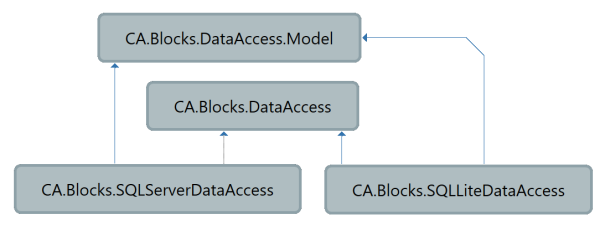
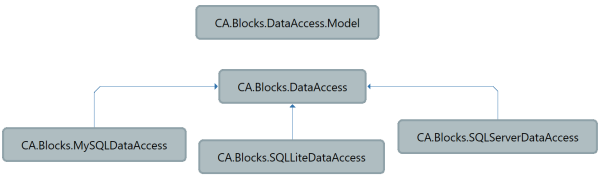
Add MySQL documntation

Changed region(s): [[0.0, 0.0282, 1.0, 0.9887]]

diff --git a/CA.Blocks.DataAccess/DI/AppDotConfigConnectionStringsResolver.cs b/CA.Blocks.DataAccess/DI/AppDotConfigConnectionStringsResolver.cs
@@ -5,7 +5,7 @@ namespace CA.Blocks.DataAccess.DI
     /// <summary>
     /// Uses the App.Config ConnectionStrings, this is common on .NET 1-4.8 frameworks. It will be using the App.config or web.config ConnectionStrings setting
     /// </summary>
-    [System.Obsolete("We are going remove class to reduce the number of dependencies taken on the CA.Blocks.DataAccess. The Configuration used is a Hosting app concern")]
+    [System.Obsolete("We are going remove class to reduce the number of dependencies taken on the CA.Blocks.DataAccess. The Configuration used is a Hosting app concern see https://www.codeassociate.com/Blocks/DataAccess/Samples/Connection/UsingAppDotConfigConnectionStringsResolver.html for a fix")]
     public class AppDotConfigConnectionStringsResolver : IDataAccessKeyToConnectionStringResolver
     {
         /// <summary>

diff --git a/CA.Blocks.DataAccess/DI/JsonConfigConnectionStringsResolver.cs b/CA.Blocks.DataAccess/DI/JsonConfigConnectionStringsResolver.cs
@@ -6,7 +6,7 @@ namespace CA.Blocks.DataAccess.DI
     /// Uses the JsonConfig  this is common on .NET core frameworks 
     /// </summary>
     ///
-    [System.Obsolete("We are going remove class to reduce the number of dependencies taken on the CA.Blocks.DataAccess. The Configuration used is a Hosting app concern")]
+    [System.Obsolete("We are going remove class to reduce the number of dependencies taken on the CA.Blocks.DataAccess. The Configuration used is a Hosting app concern. See https://www.codeassociate.com/Blocks/DataAccess/Samples/Connection/UsingJsonConfigConnectionStringsResolver.html for a fix")]
     public class JsonConfigConnectionStringsResolver : IDataAccessKeyToConnectionStringResolver
     {
         private readonly IConfiguration _configuration;

diff --git a/Documentation/Index.md b/Documentation/Index.md
@@ -7,16 +7,16 @@ The CA.Blocks.DataAccess is a lightweight .NET library designed specifically for
 
 1. Direct working with the SQL layer. If you like controlling exactly what the SQL does this is a good framework, as you are 100% in the control of the SQL.
 2. Custom translators allowing you to use the generic converters, or implementing you own converters for performance. 
-3. Easy setup and Go with providers for SQL light and SQL server.
+3. Easy setup and Go with providers for SQL light and SQL server, and MySQL
 
 
 ### What it is not
 
-The CA.Blocks.DataAccess is not trying to be a an ORM like Entity framework for NHibernate and hiding the SQL.  The base classes have never been designed to be any form of ORM.  In fact using the blocks you will be working directly with the underlying SQL. There is no magic projection for queries or magic save to have changes to classes back to entities in the DB. Whilst there are helper functions you are 100% in control the database interactions.
+The CA.Blocks.DataAccess is not trying to be a an ORM like Entity framework for NHibernate and hiding the SQL.  The base classes have never been designed to be any form of ORM, and there is no DB context. In fact using the blocks you will be working directly with the underlying SQL. There is no magic projection for queries or magic save to have changes to committed back to entities in the DB. Whilst there are helper functions you are 100% in control the database interactions.
 
-Using the blocks allows full control of the SQL. If you don’t want to work with SQL then this is not the library for you.  The Blocks allow you to work directly with the SQL code whilst providing a good structure to reduce the impedance mismatch between the two technologies allowing the developer to move from the C# types into SQL parameters and then SQL into the C# types.
+Using the blocks allows full control of the SQL. If you don’t want to work with SQL then this is not the library to used.  The Blocks allow you to work directly with the SQL code whilst providing a good structure to reduce the impedance mismatch between the two technologies allowing a developer to move from the C# types into SQL parameters and then SQL into the C# types.
 
 
 ### History
 
-CA.Blocks.DataAccess grew out of projects I been working on since 2003. and have been well tested.  They have evolved as the .NET framework as evolved.  After trying to switch to Entity framework and n-Hibernate I came back to the CA.Blocks.DataAccess for the simple reason it was lightweight and far more predictable.  I found that whilst the Entity framework and n-Hibernate excel at CRUD type applications I was doing a lot of workarounds and conversions trying use and them in either CQRS, layered onion, and repository  type Architectures.  I have seen many code bases use Entity framework for data access in a Repository Pattern, any in most cases you end up writing more code in the object world to avoid working to a few SQL statements.  A tell-tale sign is you using reflection or mapping to copy objects of similar structures across boundaries. 
+CA.Blocks.DataAccess grew out of projects I been working on since 2003, they are will used and tested.  They have evolved as the .NET framework as evolved.  After trying to switch to Entity framework and n-Hibernate I came back to the CA.Blocks.DataAccess as my defacto for the simple reason it was lightweight and far more predictable.  I found that whilst the Entity framework and n-Hibernate excel at CRUD type applications I was doing a lot of workarounds and conversions trying use and them in either CQRS, layered onion, and repository  type Architectures.  I have seen many code bases use Entity framework for data access in a Repository Pattern, any in most cases you end up writing more code in the object world to avoid working to a few SQL statements.  A tell-tale sign is you using reflection or mapping to copy objects of similar structures across boundaries. 

diff --git a/Documentation/Samples/Connection/UsingJsonConfigConnectionStringsResolver.md b/Documentation/Samples/Connection/UsingJsonConfigConnectionStringsResolver.md
@@ -1,8 +1,9 @@
 ### JsonConfigConnectionStringsResolver
 
-This is a implementation of IDataAccessKeyToConnectionStringResolver that uses the Microsoft.Extensions.ConfigurationConfigurationManager class.  This is common with the .NET Core frameworks and designed using the dependency injection pattern.
+This is an example implementation of IDataAccessKeyToConnectionStringResolver that uses the Microsoft.Extensions.ConfigurationConfigurationManager class.  
+This is common with the .NET Core frameworks and designed using the dependency injection pattern. 
 
-Example config in appsettings.json 
+Example using Json and with config in appsettings.json and a ConnectionString named exampleName
 
 ``` json 
 {
@@ -12,10 +13,13 @@ Example config in appsettings.json
 }
 
 ```
-First you will need to add a reference to the package Microsoft.Extensions.Configuration 
-Create a class in your hosing application called JsonConfigConnectionStringsResolver, to resolve the Key to the connection string.  
+First you will need to add a reference to the package Microsoft.Extensions.Configuration
+Create a class in your code where you data access classes will live called JsonConfigConnectionStringsResolver, to resolve the Key to the connection string.  
 
 ``` csharp
+/// <summary>
+/// Uses the JsonConfig 
+/// </summary>
 public class JsonConfigConnectionStringsResolver : IDataAccessKeyToConnectionStringResolver
 {
     private readonly IConfiguration _configuration;
@@ -27,6 +31,7 @@ public class JsonConfigConnectionStringsResolver : IDataAccessKeyToConnectionStr
 
     public string GetConnectionString(string connectionStringKey)
     {
+        // this is use the IConfiguration to get the configured value for connectionStringKey/
         return _configuration.GetConnectionString(connectionStringKey);
     }
 }
@@ -37,10 +42,10 @@ To use this in from the blocks we need to join the config up notice we are using
 ``` csharp
 public class MyDataAccess : SqlServerDataAccess
 {
-    public MyDataAccess() : base (
+    public MyDataAccess(IConfiguration configuration) : base (
             new DataAccessConfig("configName", 
             new DataAccessConfigOptions { ConnectionStringKey = "exampleName" }, 
-            new JsonConfigConnectionStringsResolver())
+            new JsonConfigConnectionStringsResolver(configuration))
         )
         {
         }

diff --git a/Documentation/BasicDesign.md b/Documentation/BasicDesign.md
@@ -3,7 +3,7 @@
 The basic premise of the Data Access Blocks is to provide a simple interface to access a relational database. The blocks are split into three core components allowing flexible configurations.  
 1. The Model  - CA.Blocks.DataAccess.Model used for client access in multi tier architectures.
 2. The Core Abstract Data Access Logic - CA.Blocks.DataAccess used for abstract and shared non provider specific code.  
-3. The specific implementation - eg    CA.Blocks.SQLServerDataAccess or CA.Blocks.SQLLiteDataAccess
+3. The specific implementation - eg    CA.Blocks.SQLServerDataAccess or CA.Blocks.SQLLiteDataAccess or CA.Blocks.MySQLDataAccess
 
 <p align="center">
     <img src="_assets/DesignCA.Blocks.DataAccess.png" alt="Design CA.Blocks.DataAccess" />
@@ -14,6 +14,7 @@ The basic premise of the Data Access Blocks is to provide a simple interface to 
 The *model* represents the core design elements that you will need a client to specify. The client might not have access to the data access class as such the model is implemented in an independent assembly and will have no dependencies. An example is a the PagingRequest class. The paging request is a common element that is specified on the client and passed into the The specific implementation to execute. The paging class can then be shared on the client application allowing it to specify the paging request without having to have a reference to the  Data Access or any of the provider classes.  This would be typical in a web application, that access the service using  a web API. The CA.Blocks.DataAccess.Model has no dependencies. 
 
 #### The Core Abstract code
+
 The code in the CA.Blocks.DataAccess is abstract and common among all providers.  The assembly will have no dependencies on any specific provider. This assembly handles the connection, execution and translation, all of these elements are in System.Data namespace. It will work at the System.Data level you will not find any specific reference to to any provider at this level.
 
 #### The specific implementation 
@@ -29,6 +30,11 @@ PM> Install-Package CA.Blocks.SQLServerDataAccess -Version x.x.x
 To install for Microsoft.Data.Sqlite
 ```
 PM> Install-Package CA.Blocks.SQLLiteDataAccess -Version x.x.x
+```
+
+To install for MySqlConnector
+```
+PM> Install-Package CA.Blocks.MySQLDataAccess -Version x.x.x
 ```
 
 

diff --git a/Documentation/GettingStarted.md b/Documentation/GettingStarted.md
@@ -56,7 +56,7 @@ Notes:
 5. The SQL is constructed internally as parameterized query this is a developer responsibility
 6. The conversion of .NET string to SQL parameter is done in .WithParameter(xtype.ToSqlParameter("@xtype"));  you can also use the connection object directly ie cmd.Parameters.Add(xtype.ToSqlParameter("@xtype"));
 7. The ToSqlParameter is a convention to taking a .NET type into a SQL server parameter. All .NET value types will have implementations of ToSqlParameter();
-8. The cmd is then passed into the ExecuteToListOf  method which returns the data as a Ilist of ExampleSysObjects. As we have 1-1 mapping the conversion is handled 100% by the Blocks.
+8. The cmd is then passed into the ExecuteToListOf  method which returns the data as a IList of ExampleSysObjects. As we have 1-1 mapping the conversion is handled 100% by the Blocks.
 
 Consuming this class: 
 ``` csharp
@@ -75,7 +75,7 @@ public void ExecuteToListOfDev()
 ```
 Notes:
 1. You construct the instance of the DataAccess ExampleReadDataAsExecuteListOf()
-2. You Call the method ReadSysObjectsOfType("U") The only methods you see are public ones from System.Object and the ReadSysObjectsOfType. This is by design guts of the DataAccess Class is Protected By Default. The Instance of the DataAccess can access the method, but the calling client only sees what is exposed. The calling code cannot call ExecuteToListOf
+2. You Call the method ReadSysObjectsOfType("U") The only methods you see are public ones from System.Object and the ReadSysObjectsOfType. This is by design the guts of the DataAccess class is protected By default. The Instance of the DataAccess can access the method, but the calling client only sees what is exposed. The calling code cannot call ExecuteToListOf
 <p align="center">
     <img src="_assets/ProtectedByDefaultExample.png" alt="ProtectedByDefault" />
 </p>

diff --git a/Documentation/Samples/ReadingData/SimpleSelectWithParameters.md b/Documentation/Samples/ReadingData/SimpleSelectWithParameters.md
@@ -76,5 +76,5 @@ Or use the  .WithParameters extension method.
 ```
 
 
-[see full list of SQL server ToSqlParameter extensions](https://www.codeassociate.com/Blocks/DataAccess/api/class/CA.Blocks.SQLServerDataAccess.SqlServerParameterExtensions.html)
+[see full list of SQL server ToSqlParameter extensions](https://www.codeassociate.com/Blocks/DataAccess/Api/class/CA.Blocks.SQLServerDataAccess.SqlServerParameterExtensions.html)
  

diff --git a/Documentation/Samples/Index.md b/Documentation/Samples/Index.md
@@ -1,6 +1,6 @@
 ### Samples
 
 1. [Connection](./Connection/Index.html)
-2. [Reading  Data](./ReadingData/Index.html)
+2. [Reading Data](./ReadingData/Index.html)
 
 .. more to follow.
